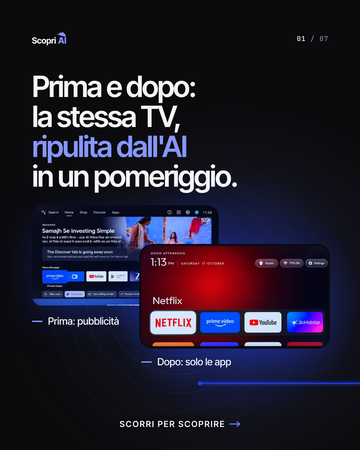
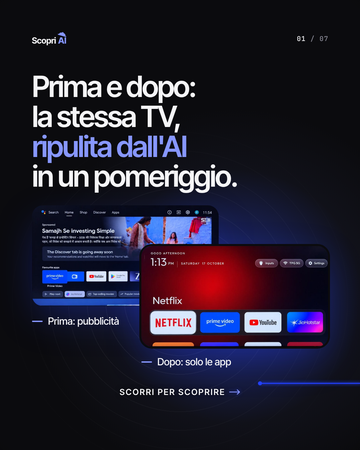
Copertina 20/10: «SCORRI PER SCOPRIRE →» sopra i pallini di Instagram (anche nella skill)
Claude-Session: https://claude.ai/code/session_01XwbamHMD22pS1qReAsKQQF

Changed region(s): [[0.3361, 0.84, 0.7333, 0.9022], [0.3361, 0.9333, 0.6722, 0.9644]]

diff --git a/.claude/skills/scopri-carousel/assets/template/engine/carousel.css b/.claude/skills/scopri-carousel/assets/template/engine/carousel.css
@@ -93,10 +93,10 @@ body.video *{animation-play-state:paused!important}           /* frames are seek
 .mode-dark .f-cue.filled,.mode-light .f-cue.filled{background:var(--accent-500)}
 .mode-dark .f-cue.filled svg,.mode-light .f-cue.filled svg{stroke:#fff}
 .mode-accent .f-cue.filled{background:#fff}
-/* Cover only: swipe invite centred at the bottom, baseline ≈ y 1282, so on Instagram it sits right above the carousel dots
-   (drawn by Instagram ~20–40 px from the bottom: the last ~60 px stay free). Words + thin blue arrow, no dots (owner, 20 Oct 2026).
+/* Cover only: swipe invite centred at the bottom, caps centre ≈ y 1175, ABOVE the carousel dots that Instagram mobile draws inside the image at ≈ y 1232
+   (band 1205–1350 stays free; keep the cover thread start right of the invite, threadStart ≥ 760). Words + thin blue arrow, no dots (owner, 20 Oct 2026).
    Text from CAROUSEL.swipe (default «Scorri per scoprire»; false = none). */
-.f-swipe{position:absolute;left:50%;top:1258px;transform:translateX(-50%);height:30px;display:flex;align-items:center;gap:14px;white-space:nowrap;z-index:9;
+.f-swipe{position:absolute;left:50%;top:1162px;transform:translateX(-50%);height:30px;display:flex;align-items:center;gap:14px;white-space:nowrap;z-index:9;
   font:600 25px/30px var(--font-primary);letter-spacing:.12em;text-transform:uppercase;color:var(--tp);text-shadow:0 0 14px rgba(0,0,0,.55),0 1px 3px rgba(0,0,0,.45)}
 .f-swipe span{margin-right:-.12em}
 .f-swipe svg{width:34px;height:16px;flex:none;position:relative;top:-1px;   /* centred on the capitals (cap height), measured to ±0.5 px (20 Oct 2026) */

diff --git a/carousels/2026-10-20-news-smart-tv-ai/engine/carousel.css b/carousels/2026-10-20-news-smart-tv-ai/engine/carousel.css
@@ -93,10 +93,10 @@ body.video *{animation-play-state:paused!important}           /* frames are seek
 .mode-dark .f-cue.filled,.mode-light .f-cue.filled{background:var(--accent-500)}
 .mode-dark .f-cue.filled svg,.mode-light .f-cue.filled svg{stroke:#fff}
 .mode-accent .f-cue.filled{background:#fff}
-/* Cover only: swipe invite centred at the bottom, baseline ≈ y 1282, so on Instagram it sits right above the carousel dots
-   (drawn by Instagram ~20–40 px from the bottom: the last ~60 px stay free). Words + thin blue arrow, no dots (owner, 20 Oct 2026).
+/* Cover only: swipe invite centred at the bottom, caps centre ≈ y 1175, ABOVE the carousel dots that Instagram mobile draws inside the image at ≈ y 1232
+   (band 1205–1350 stays free; keep the cover thread start right of the invite, threadStart ≥ 760). Words + thin blue arrow, no dots (owner, 20 Oct 2026).
    Text from CAROUSEL.swipe (default «Scorri per scoprire»; false = none). */
-.f-swipe{position:absolute;left:50%;top:1258px;transform:translateX(-50%);height:30px;display:flex;align-items:center;gap:14px;white-space:nowrap;z-index:9;
+.f-swipe{position:absolute;left:50%;top:1162px;transform:translateX(-50%);height:30px;display:flex;align-items:center;gap:14px;white-space:nowrap;z-index:9;
   font:600 25px/30px var(--font-primary);letter-spacing:.12em;text-transform:uppercase;color:var(--tp);text-shadow:0 0 14px rgba(0,0,0,.55),0 1px 3px rgba(0,0,0,.45)}
 .f-swipe span{margin-right:-.12em}
 .f-swipe svg{width:34px;height:16px;flex:none;position:relative;top:-1px;   /* centred on the capitals (cap height), measured to ±0.5 px (20 Oct 2026) */

diff --git a/.claude/skills/scopri-carousel/assets/template/engine/carousel.js b/.claude/skills/scopri-carousel/assets/template/engine/carousel.js
@@ -9,7 +9,7 @@
     logos: { dark: 'brand/scopri-ai-logo-negativo.png', light: 'brand/scopri-ai-logo-colore.png', accent: 'brand/scopri-ai-logo-bianco.png' },
     seams: [],                        // seams[k] = y where the thread crosses the seam between slide k+1 and k+2
     routes: [],                       // per slide: 'start' | 'straight' | 'rightUp' | 'leftDown' | 'end' | 'none' | { d, nodes }
-    threadStart: 600,                 // x of the start node on the cover
+    threadStart: 780,                 // x of the start node on the cover (right of the centred swipe invite, 20 Oct 2026)
     threadEnd: '.apill',              // element on the last slide the thread ends next to
     threadEndX: 120,                  // x of the vertical run on the closing slide (left of the centred follow line)
     slideDuration: 5000,              // ms per slide in animated carousels (override per slide with data-duration)

diff --git a/.claude/skills/scopri-carousel/assets/template/index.html b/.claude/skills/scopri-carousel/assets/template/index.html
@@ -212,7 +212,7 @@ window.CAROUSEL = {
            { d: 'M0 1150 H140 C330 1150 400 1090 540 1068 S760 990 840 962 S1000 912 1080 900', nodes: [[840, 962]] },   // T4: thread = chart
            { d: 'M0 900 H24 Q48 900 48 924 V1126 Q48 1150 72 1150 H1080' },                                           // drop down the left margin
            'straight', 'rightUp', 'leftDown', 'straight', 'straight', 'end'],
-  threadStart: 600,
+  threadStart: 780,
 };
 </script>
 <script src="engine/carousel.js"></script>

diff --git a/carousels/2026-10-20-news-smart-tv-ai/index.html b/carousels/2026-10-20-news-smart-tv-ai/index.html
@@ -170,7 +170,7 @@ window.CAROUSEL = {
   tipo: 'notizia',
   seams:  [1150, 1150, 1150, 1150, 1150, 1150, 1150],
   routes: ['start', 'straight', 'straight', 'straight', 'straight', 'straight', 'straight', 'end'],
-  threadStart: 600,
+  threadStart: 780,
 };
 </script>
 <script src="engine/carousel.js"></script>

diff --git a/.claude/skills/scopri-carousel/references/brand-scopri-ai.md b/.claude/skills/scopri-carousel/references/brand-scopri-ai.md
@@ -65,7 +65,7 @@ These differ from `design-system.md` §3. Each one is the user's correction from
 - **The progress counter counts content slides only.** With N slides the counter runs `01 / N−1` … `N−1 / N−1`. The closing slide has no counter. The user said the counter should not count the last slide, and the closing slide shouldn't show it.
 - **Closing slide:** no corner logo (the big centred logo is already there, and the user flagged the repetition), no counter, no swipe cue.
 - **No handle anywhere** (20 Oct 2026): the frame no longer prints `@scopri__ai` bottom-left. The footer keeps only the swipe cue on the right.
-- **Swipe invite on the cover only, instead of the filled arrow** (owner, 20 Oct 2026): «SCORRI PER SCOPRIRE →» **centred at the bottom**, baseline ≈ y 1280 (caps y 1263–1280), so that on Instagram it sits right above the carousel dots (Instagram draws them centred, about 20–40 px from the bottom edge: the last ~60 px stay free). Inter Tight 600, 25 px, uppercase, letter-spacing .12em, white with a soft dark glow, then a thin brand-blue arrow (34 × 16 px, accent-300) **centred on the capitals' height** (measured: arrow centre = caps centre, y 1271.5). Words only, **no dots**. The cover has **no filled arrow bottom-right**; every other content slide keeps its outlined arrow. The engine adds it to slide 1 (`.f-swipe`) and to the alternative covers; `CAROUSEL.swipe` changes the words, `false` removes it and brings the filled arrow back. Keep the cover's content above y ≈ 1180.
+- **Swipe invite on the cover only, instead of the filled arrow** (owner, 20 Oct 2026): «SCORRI PER SCOPRIRE →» **centred, above Instagram's carousel dots**. Instagram mobile draws the carousel dots inside the image at ~y 1232/1350 (band ~1215–1250, checked on the owner's phone): the swipe line must sit above them, **caps centre ~y 1175** (`.f-swipe` top 1162 → caps y 1167–1184), with ~40 px between the words and the dots; the band 1205–1350 stays free. Inter Tight 600, 25 px, uppercase, letter-spacing .12em, white with a soft dark glow, then a thin brand-blue arrow (34 × 16 px, accent-300) **centred on the capitals' height** (measured: arrow centre = caps centre). Words only, **no dots**. The cover has **no filled arrow bottom-right**; every other content slide keeps its outlined arrow. The cover's thread starts right of the words (`threadStart` 780, default) so the line at ~y 1150 never runs over them. The engine adds the invite to slide 1 (`.f-swipe`) and to the alternative covers; `CAROUSEL.swipe` changes the words, `false` removes it and brings the filled arrow back. Keep the cover's content (images, captions) above y ≈ 1120.
 - **No rubric label on the cover** (20 Oct 2026): no pill ("News lampo", "Prompt"…) on slide 1, ever. The headline starts at y ≈ 216.
 - **Eyebrow pills on content slides** are plain mono labels with a short accent dash: no rounded box, no coloured dot (the dot pills clashed with the new captions).
 - **No stickers or labels laid over images or cards** (20 Oct 2026). The only text tied to an image is a comparison caption under it, **«Prima: …» / «Dopo: …»** (`.cap`, see §6).

diff --git a/.claude/skills/scopri-carousel/references/lessons-learned.md b/.claude/skills/scopri-carousel/references/lessons-learned.md
@@ -49,6 +49,7 @@ This file records what happened between the original brief and the approved caro
 | Slide 3 kept «Prima: l'annuncio. Ora è sparito.» under a single image. | Removed: a single image that already speaks (with the headline) gets no caption. |
 | The 🔔 follow line on the closing slide had a still, small lid. The owner first wanted it to look like a ringing notification (tilted lid with curved vibration lines, 86 × 36 px), then, the same day (20 Oct 2026), removed the vibration lines. | Back to the **plain small lid**: about 44 × 25 px, slanted as in the logo, in the mode's light accent blue, left of «Seguici per non perdere …», **no vibration arcs** (engine `BELL`, every closing slide). Static, no GIF. Not added to the big logo. |
 | Other pages end the cover with "SWIPE FOR MORE" above the dots; ours had only the filled arrow (owner, 20 Oct 2026). Tried the same day: bottom-left in JetBrains Mono, then centred with the filled arrow kept, then two variants; the owner chose the invite with its own arrow and **no filled arrow**, and noticed the small arrow sat ~1 px low. | Cover only (slide 1 and alternative covers): «SCORRI PER SCOPRIRE →» centred at the bottom, caps y 1263–1280, just above Instagram's dots. Inter Tight 600 25 px, uppercase, white with a soft glow; thin brand-blue arrow nudged up 1 px so its centre equals the capitals' centre (measured 1271.5 = 1271.5). No dots, **no filled arrow bottom-right on the cover**; other slides keep theirs. Engine `.f-swipe`. |
+| The owner uploaded the cover: on Instagram mobile the carousel dots appeared **above** our swipe line (preview 502 px tall: dots y ≈ 458, words y ≈ 474 → dots ~y 1232/1350), not below it (20 Oct 2026). | Instagram mobile draws the carousel dots inside the image at ~y 1232/1350; the swipe line must sit above them, centre ~y 1175 (caps 1167–1184), ~40 px clear of the dots, band 1205–1350 free. Cover thread starts at x 780, right of the words. Verify with simulated dots on a scratch copy. |
 | On 20 Oct 2026 the owner first said he never uses the alternative covers, then corrected himself the same day: he **wants them**. | Keep making the alternative covers with the draft (`copertina-b.png`, `-c`…, and a video cover when there is a real clip), as before. |
 | `python` in `/usr/local/bin` (cloud) has a broken Pillow; `npm run previews` / `npm run media` failed. | Run them with `PATH=/usr/bin:$PATH`. |
 | The cover headline at top 200 measured 191 (font ascent) and failed the live-area QA. | Without a pill, start the cover headline at **y 216**. |

diff --git a/carousels/2026-10-20-news-smart-tv-ai/note.md b/carousels/2026-10-20-news-smart-tv-ai/note.md
@@ -7,7 +7,7 @@
 
 ## Copertina
 - Copertina approvata: `exports/slide-01.png` (schermi sovrapposti, «Prima: pubblicità» / «Dopo: solo le app»).
-- Invito a scorrere (proprietario, 20/10, variante 2 scelta): «SCORRI PER SCOPRIRE →» centrato in basso (maiuscole y 1263–1280, ultimi ~69 px liberi per i pallini di Instagram), Inter Tight semibold 25 px, bianco; freccina blu sottile centrata sull'altezza delle maiuscole (centro 1271,5 = 1271,5). Niente cerchio blu con freccia in copertina. Le copertine alternative restano com'erano (cerchio blu + scritta precedente): non rigenerate per scelta del proprietario.
+- Invito a scorrere (proprietario, 20/10, variante 2 scelta): «SCORRI PER SCOPRIRE →» centrato in basso SOPRA i pallini di Instagram (che sul telefono stanno a ~y 1232: maiuscole y 1167–1184, centro 1175,5; fascia 1205–1350 libera; linea blu della copertina che parte da x 780, a destra della scritta), Inter Tight semibold 25 px, bianco; freccina blu sottile centrata sull'altezza delle maiuscole (centro 1175,5 = 1175,5). Niente cerchio blu con freccia in copertina. Le copertine alternative restano com'erano (cerchio blu + scritta precedente): non rigenerate per scelta del proprietario.
 - Alternative (stessa scritta): `copertina-a.png` (= slide 1), `copertina-c.png` (fotogramma di Ryan Doyle, senza didascalia), `copertina-d.png` (Mihir Gupta), `copertina-e.png` (titolo «La TV dei suoi mostrava pubblicità prima di Netflix. Non più.»), `copertina-f.png` (titolo «Pubblicità sulla tua smart TV? C'è chi la toglie con l'AI.»); confronto in `copertine-confronto.jpg`.
 - **Copertina video**: `copertina-video.mp4` (6 s) + `copertina-video-completo.mp4` (13 s) + `copertina-video.png`. Video vero di Ryan Doyle con il titolo f; ho scartato «Prima e dopo: la stessa TV» perché il video mostra solo il dopo, e di un'altra TV. Se la si usa, lo stesso video torna in slide 5 (pezzi diversi). Testo alternativo: «Copertina: «Pubblicità sulla tua smart TV? C'è chi la toglie con l'AI». Video vero: menu di una TV ripulita che scorre.»
 - `dumbtv.mp4` scartato come copertina: animazione grafica con scritte in inglese, non una ripresa vera.

diff --git a/.claude/skills/scopri-carousel/references/build-guide.md b/.claude/skills/scopri-carousel/references/build-guide.md
@@ -186,7 +186,7 @@ This writes `contact-sheet.jpg`, `strip-preview.jpg` and `cover-360.png`. **Read
 
 Then send the user the contact sheet (and the cover). Lead with anything not yet done.
 
-**Cover (Scopri AI, owner 20 Oct 2026).** Check slide-01 and the alternative covers at full size, and zoom on the invite: «SCORRI PER SCOPRIRE →» centred at the bottom (caps y ≈ 1263–1280, last ~60 px free for Instagram's dots), the blue arrow's vertical centre on the capitals' centre (±1 px: measure the white cap pixels and the blue arrow pixels), no filled arrow bottom-right on the cover, clear of the captions (keep the cover's content above y ≈ 1180).
+**Cover (Scopri AI, owner 20 Oct 2026).** Instagram mobile draws the carousel dots inside the image at ~y 1232/1350; the swipe line must sit above them, centre ~y 1175. Check slide-01 and the alternative covers at full size and zoom on the invite: «SCORRI PER SCOPRIRE →» centred (caps y ≈ 1167–1184), band 1205–1350 free, the blue arrow's vertical centre on the capitals' centre (±1 px: measure the white cap pixels and the blue arrow pixels), no filled arrow bottom-right on the cover, the cover thread starting right of the words (`threadStart` ≥ 760), images and captions ending by y ≈ 1120. To check, paste 4 dots (14 px, gap 10 px) centred at y 1232 on a scratch copy of slide-01.
 
 ## 9. Revisions
 
